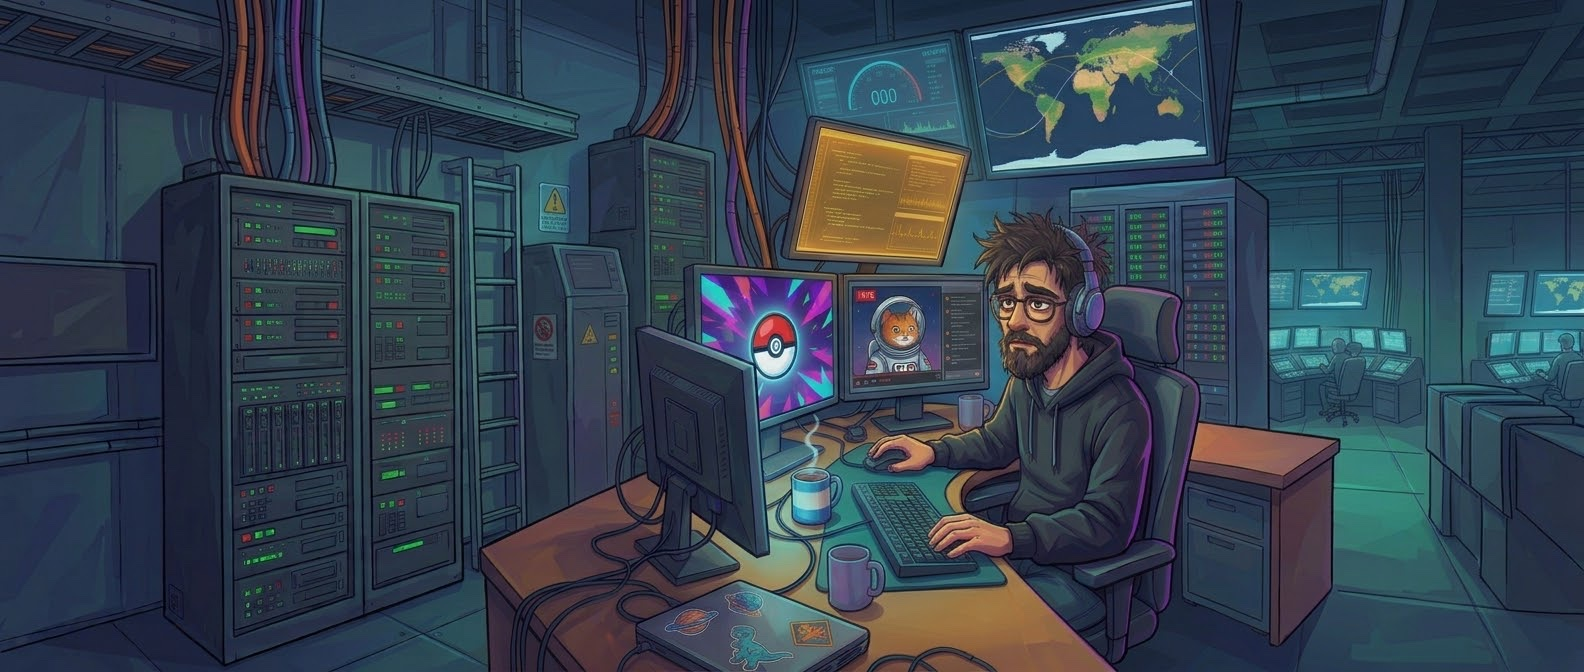
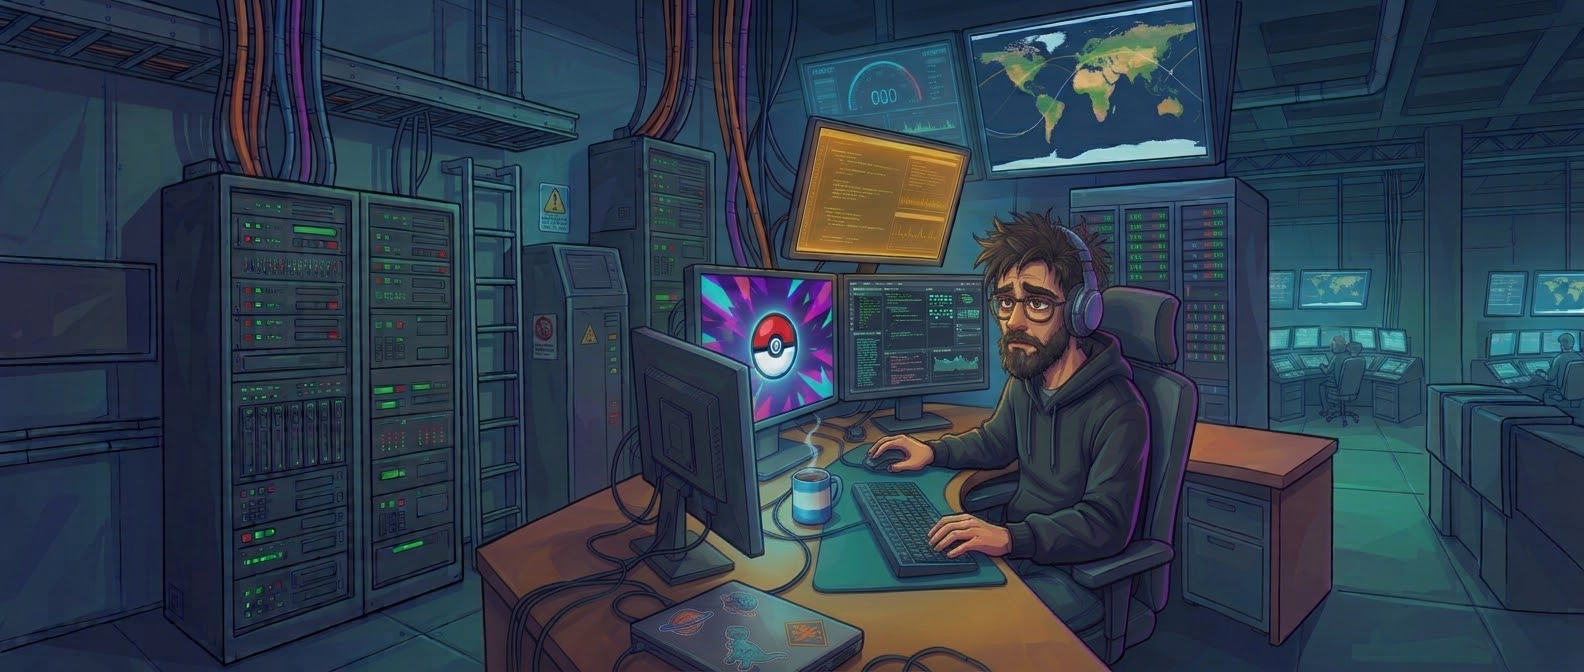
Show the whole backend scene in the About band
Swap in the new backend picture and let the band's height follow
its proportions; the astronaut scales with it.

diff --git a/src/app/sections/about.html b/src/app/sections/about.html
@@ -20,9 +20,10 @@
     </dl>
   </div>
 
-  <!-- Full-width split image: pointing at a side expands it over the other. -->
+  <!-- Full-width split image: pointing at a side expands it over the other.
+       From md up the band keeps the backend picture's proportions, so the whole scene shows. -->
   <div
-    class="relative h-[640px] w-full overflow-hidden"
+    class="relative h-[640px] w-full overflow-hidden md:h-[clamp(520px,42.4vw,900px)]"
     (pointermove)="onPointer($event)"
     (pointerdown)="onPointer($event)"
     (pointerleave)="onLeave($event)"
@@ -30,7 +31,7 @@
     <!-- Frontend side (underneath): no background of its own, so the sky behind the section shows through. -->
     <div class="absolute inset-0">
       <div
-        class="absolute bottom-0 left-1/2 h-[400px] w-[400px] -translate-x-1/2 md:top-0 md:left-[46%] md:h-full md:w-[640px]"
+        class="absolute bottom-0 left-1/2 h-[400px] w-[400px] -translate-x-1/2 md:top-0 md:left-[46%] md:aspect-square md:h-full md:w-auto"
       >
         <img
           ngSrc="images/frontend.png"
